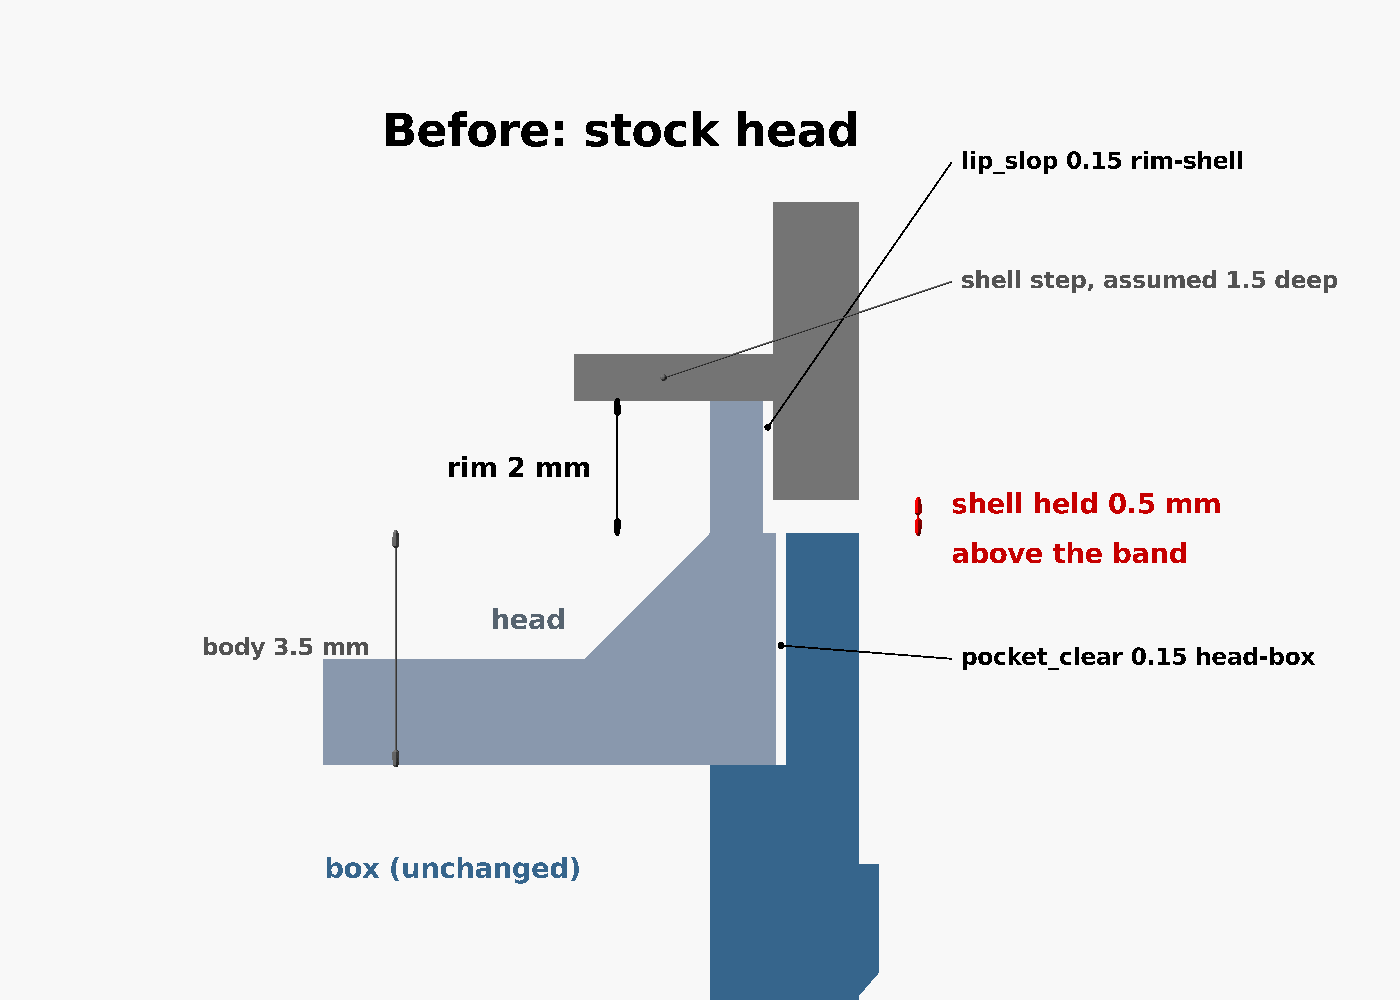
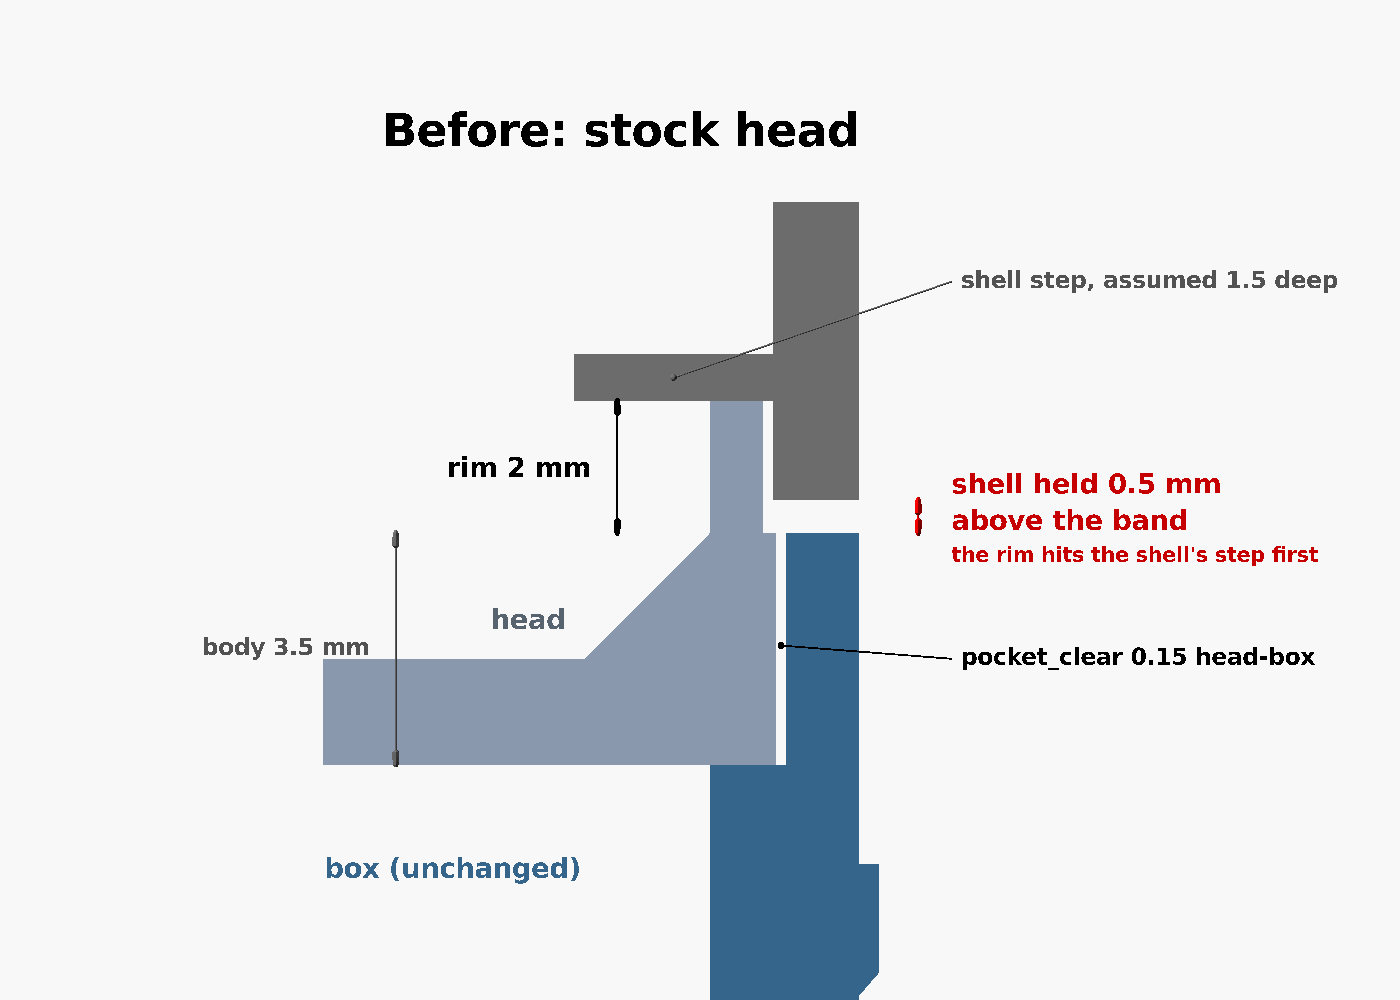
Restructure ALLAN_FITMENT.md as problem, cause, fix, result
The doc now goes: the problem (photos), why it happened (side-wall cut
of the stock head), the fix (parameter table), and why it's fixed
(before/after cut).

New figures:
- a cut with only the rim lowered, showing why stock_clear has to drop
  with lip_h (otherwise the body grows 0.5 mm and the head stands out
  of the box)
- close-ups of the head-to-box and rim-to-shell gaps, drawn to scale,
  before and after

fig_allan_fitment.scad measures the shell's height from the stock box's
band, so the cut with only the rim lowered comes out right. It also
gets a close-up mode. make_renders.sh regenerates all of these.

Claude-Session: https://claude.ai/code/session_0115imstn3UbypdBBi1VCPhB

diff --git a/ALLAN_FITMENT.md b/ALLAN_FITMENT.md
@@ -1,76 +1,113 @@
 # Allan fitment: a snugger desk-stand head
 
-A desk-stand head printed from the stock preset dropped into its box but was loose,
-and the Waveshare front shell sat above the box face instead of landing on the
-1.1 mm pocket band. A white strip of head shows between the black shell and the box:
+The fix is a new head, [`amoled18_stand_head_allan_fitment.stl`](amoled18_stand_head_allan_fitment.stl).
+**The box is unchanged.** Reprint the head and keep the box you already have.
+
+## 1. The problem
+
+A head printed from the stock preset had two problems:
+
+- **The front shell doesn't sit down on the box.** The black front shell should land on
+  the box's 1.1 mm band, flush with the box's outside. It stops above it instead, and
+  a white strip of the head shows between them.
+- **The head is loose in the box.** It drops in but can move around.
 
 | Side | USB-C edge | Corner |
 |---|---|---|
 | ![Side view](photos/allan-fitment-before-side.jpg) | ![USB-C edge](photos/allan-fitment-before-usb-edge.jpg) | ![Corner](photos/allan-fitment-before-corner.jpg) |
 
-The fix is a new head only. **The box is unchanged.** Reprint the head and keep the box you already have.
+## 2. Why it happened
+
+The images below cut through one side wall of the stand, square to the head and between
+the lock screws. Blue is the box, light blue is the head, dark gray is the front shell.
+
+![Stock head cut through the side wall](renders/allan-fitment-before.png)
+
+**The rim is too tall for the shell.** The head's rim goes up inside the front shell. The
+shell has an inside step about 1.5 mm in from its edge. The stock rim is 2 mm tall, so it
+hits that step while the shell's edge is still 0.5 mm above the box's band. The shell
+can't come down any further, and the 0.5 mm of head below it is the white strip in the
+photos.
+
+Nobody has measured the step depth. The 1.5 mm in the drawing is an assumption
+(`shell_depth` in the figure source). It matches the roughly 0.5 mm the shell sits too
+high in the photos.
+
+**The gaps are too wide for this print.** Up close, with the gaps drawn to scale:
+
+![Close-up of the gaps, before (left) and after (right)](renders/allan-fitment-gaps.png)
+
+On the left (before), the head has 0.15 mm of gap to the box on every side, and the rim
+has 0.15 mm to the shell. Those defaults are deliberately loose so a head fits from
+most printers. On this print they left up to 0.3 mm of play across the head (0.15 mm on
+each side), enough to feel. The red bar on the right is the
+0.5 mm the shell is held up.
+
+## 3. The fix
+
+New preset **Desk stand: head, Allan fitment (snug)** in
+[`amoled18_back_plate.json`](amoled18_back_plate.json). It starts from
+**Desk stand: head (fits every box)** and changes five values:
+
+| Parameter | Stock | Allan fitment | What it does |
+|---|---|---|---|
+| `lip_h` | 2.0 | 1.5 | Lowers the rim 0.5 mm, so it no longer holds the shell up. Lowered by 0.5 mm this pass, not a full 1 mm |
+| `tower_drop` | 2.0 | 1.5 | Must equal `lip_h`, or the screw towers stand above the seam and hold the board off |
+| `stock_clear` | 3.9 | 3.4 | Keeps the head's body 3.5 mm tall, the depth of the box's pocket (see below) |
+| `pocket_clear` | 0.15 | 0.05 | Head-to-box gap each side. Makes the head bigger; the box opening stays the same |
+| `lip_slop` | 0.15 | 0.05 | Rim-to-shell gap each side |
+
+`pocket_wall` stays at 1.1. Neither gap is 0.
+
+### Why `stock_clear` changes too
+
+In desk-stand mode the model holds the head's total height at `stock_clear`, so the body
+is `stock_clear - lip_h` tall. Lowering only the rim makes the body taller by the same
+0.5 mm:
+
+![Rim lowered without stock_clear: the body grows and stands out of the box](renders/allan-fitment-trap.png)
+
+The rim is shorter, but the head now stands 0.5 mm out of the box, so the shell is held
+up just as high as before, this time by the head's body. Lowering `stock_clear` by the
+same 0.5 mm keeps the body at 3.5 mm, level with the band. The space for the board
+inside the head is unchanged.
+
+## 4. Why it's fixed
+
+![Before and after, cut through the side wall](renders/allan-fitment-compare.png)
+
+- **The shell lands on the band.** With a 1.5 mm rim, the shell's edge reaches the box's
+  band before the rim reaches the step, so the shell sits flush with the box.
+- **The head is level with the band.** The body is still 3.5 mm, so the head sits on the
+  box's ledge exactly where the stock head did.
+- **No more play.** The close-up above (right side) shows both gaps down to 0.05 mm. The
+  head is 0.1 mm wider each side (35.3 × 42.9 mm instead of 35.1 × 42.7 mm), and so is the rim.
+
+| | Stock head | Allan fitment head |
+|---|---|---|
+| Footprint | 35.1 × 42.7 mm | 35.3 × 42.9 mm |
+| Body and towers | 3.5 mm | 3.5 mm |
+| Rim | 2.0 mm | 1.5 mm |
+| Overall height | 5.5 mm | 5.0 mm |
+| Gap to the box, each side | 0.15 mm | 0.05 mm |
+| Gap to the shell, each side | 0.15 mm | 0.05 mm |
+
+F5 in OpenSCAD prints `All checks passed.` for this preset. The new head hasn't been
+printed yet.
 
 ## Files
 
 | File | What it is |
 |---|---|
-| [`amoled18_stand_head_allan_fitment.stl`](amoled18_stand_head_allan_fitment.stl) | The new head, ready to print. It fits every stand box. |
+| [`amoled18_stand_head_allan_fitment.stl`](amoled18_stand_head_allan_fitment.stl) | The new head, ready to print. It fits every stand box |
 | [`amoled18_back_plate.json`](amoled18_back_plate.json) | Preset **Desk stand: head, Allan fitment (snug)** |
-| [`amoled18_back_plate.scad`](amoled18_back_plate.scad) | The model the preset runs in (unchanged) |
+| [`amoled18_back_plate.scad`](amoled18_back_plate.scad) | The model (unchanged) |
 | [`amoled18_stand_head.stl`](amoled18_stand_head.stl) | The original head, for comparison |
-| [`renders/allan-fitment-compare.png`](renders/allan-fitment-compare.png) | Before and after, cut through the side wall |
-| [`renders/src/fig_allan_fitment.scad`](renders/src/fig_allan_fitment.scad), [`fig_allan_box_slice.scad`](renders/src/fig_allan_box_slice.scad) | The sources for those images |
+| [`renders/allan-fitment-before.png`](renders/allan-fitment-before.png), [`-trap.png`](renders/allan-fitment-trap.png), [`-after.png`](renders/allan-fitment-after.png), [`-compare.png`](renders/allan-fitment-compare.png) | The side-wall cuts |
+| [`renders/allan-fitment-gaps.png`](renders/allan-fitment-gaps.png) ([before](renders/allan-fitment-gaps-before.png), [after](renders/allan-fitment-gaps-after.png)) | The close-ups of the gaps |
+| [`renders/src/fig_allan_fitment.scad`](renders/src/fig_allan_fitment.scad), [`fig_allan_box_slice.scad`](renders/src/fig_allan_box_slice.scad) | The sources for those images. [`renders/make_renders.sh`](renders/make_renders.sh) regenerates them |
 
-## What changed
-
-The preset starts from **Desk stand: head (fits every box)** and changes:
-
-| Parameter | Stock | Allan fitment | Why |
-|---|---|---|---|
-| `lip_h` | 2.0 | 1.5 | The rim was holding the shell up; lowered 0.5 mm, not a full 1 mm, on this pass |
-| `tower_drop` | 2.0 | 1.5 | Must equal `lip_h`, or the screw towers stand above the seam and hold the board off |
-| `stock_clear` | 3.9 | 3.4 | In desk mode the body is `stock_clear - lip_h` tall. Lowering it with `lip_h` keeps the body at 3.5 mm, the depth of the box's pocket. Without it the body would grow to 4.0 mm and the head would stand 0.5 mm out of the box |
-| `pocket_clear` | 0.15 | 0.05 | Head-to-box gap per side. Makes the head bigger; the box opening stays as it is |
-| `lip_slop` | 0.15 | 0.05 | Rim-to-shell gap per side |
-
-`pocket_wall` stays at 1.1.
-
-| | Stock head | Allan fitment head |
-|---|---|---|
-| Footprint | 35.1 x 42.7 mm | 35.3 x 42.9 mm |
-| Body and towers | 3.5 mm | 3.5 mm |
-| Rim | 2.0 mm | 1.5 mm |
-| Overall height | 5.5 mm | 5.0 mm |
-
-F5 in OpenSCAD prints `All checks passed.` for this preset.
-
-## Why it fits better
-
-These images cut through one side wall of the stand, square to the head. The box is
-the same stock 103035 box in both. Only the head changes.
-
-![Before and after, cut through the side wall](renders/allan-fitment-compare.png)
-
-- **The shell lands on the band.** The front shell has an inside step that the rim
-  pushes against. If the rim is taller than that step is deep, the rim hits it first,
-  and the shell's edge stops above the box's 1.1 mm band. That's the white strip in the
-  photos. Lowering the rim from 2.0 to 1.5 mm lets the edge come down onto the band.
-  Nobody has measured the step depth. The drawing assumes 1.5 mm
-  (`shell_depth` in [`renders/src/fig_allan_fitment.scad`](renders/src/fig_allan_fitment.scad)),
-  which matches the roughly 0.5 mm the shell sits too high in the photos.
-- **The body didn't grow.** It stays 3.5 mm, the depth of the box's pocket, so the head
-  still sits level with the band. Only the rim got shorter. That's why `stock_clear` drops
-  along with `lip_h`.
-- **Less play side to side.** The head is 0.1 mm wider each side (0.05 mm gap to the box
-  instead of 0.15), and the rim is 0.1 mm wider each side (0.05 mm gap inside the shell
-  instead of 0.15). The gap to the box is narrower in the after image. The rim-to-shell
-  gap is too small to see at this scale.
-
-Full-size images: [before](renders/allan-fitment-before.png),
-[after](renders/allan-fitment-after.png). Regenerate them with
-[`renders/make_renders.sh`](renders/make_renders.sh).
-
-## Re-exporting
+## Re-exporting the head
 
 In OpenSCAD's Customizer pick **Desk stand: head, Allan fitment (snug)**, set
 `smoothness` to 96, then F6 and export. `part` is already `plate` (the head only).
@@ -85,7 +122,7 @@ Don't scale the old STL instead. Scaling stretches the screw holes and towers to
 
 ## If it still doesn't fit
 
-The new head hasn't been printed yet. 0.05 mm gaps are tight, so:
+0.05 mm gaps are tight, so:
 
 - **Head won't go into the box:** raise `pocket_clear` to 0.1.
 - **Shell won't press onto the rim:** raise `lip_slop` to 0.1.
